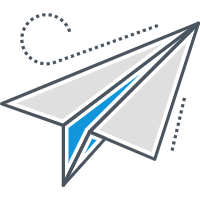
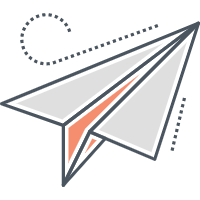
style: 修改发送按钮图标,css优化

Changed region(s): [[0.33, 0.36, 0.69, 0.81], [0.42, 0.69, 0.48, 0.78]]

diff --git a/client/src/components/Entry.vue b/client/src/components/Entry.vue
@@ -16,7 +16,7 @@
             <div class="message-tool-item">
               <a-upload :show-upload-list="false" :before-upload="beforeImgUpload">
                 <div class="message-tool-contant">
-                  <img src="~@/assets/photo.png" class="message-tool-item-img" alt="" />
+                  <img src="~@/assets/send.png" class="message-tool-item-img" alt="" />
                   <div class="message-tool-item-text">图片</div>
                 </div>
               </a-upload>

diff --git a/client/src/styles/index.scss b/client/src/styles/index.scss
@@ -12,7 +12,7 @@
   }
   ::-webkit-scrollbar-thumb {
     height: 50px;
-    background-color: rgba(0, 200, 255, 0.4);
+    background-color: rgba(9, 185, 85, 0.3);
     outline-offset: -2px;
     filter: alpha(opacity = 50);
     -moz-opacity: 0.5;
@@ -20,7 +20,7 @@
     border-radius: 4px;
   }
   ::-webkit-scrollbar-thumb:hover {
-    background-color: rgba(0, 200, 255, 0.6);
+    background-color: rgba(9, 185, 85, 0.5);
   }
 }  
 ::-webkit-scrollbar {
